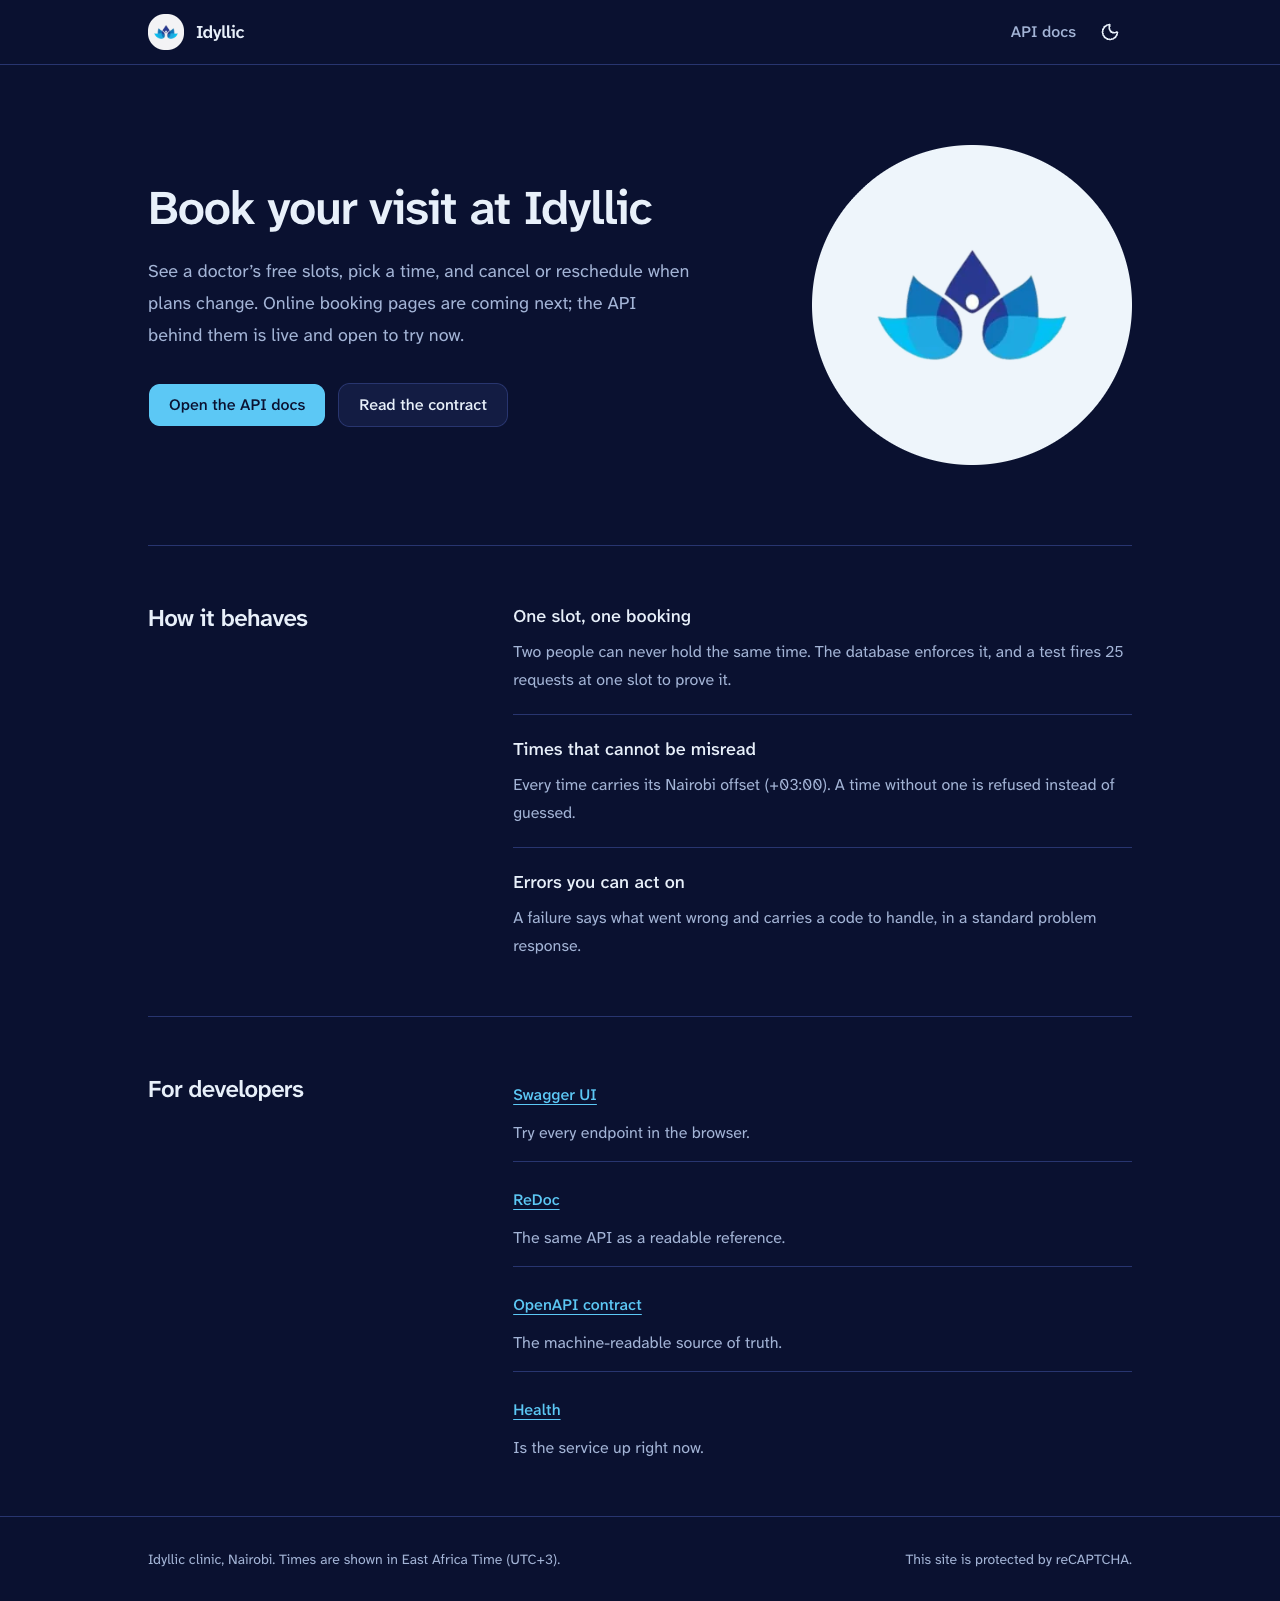
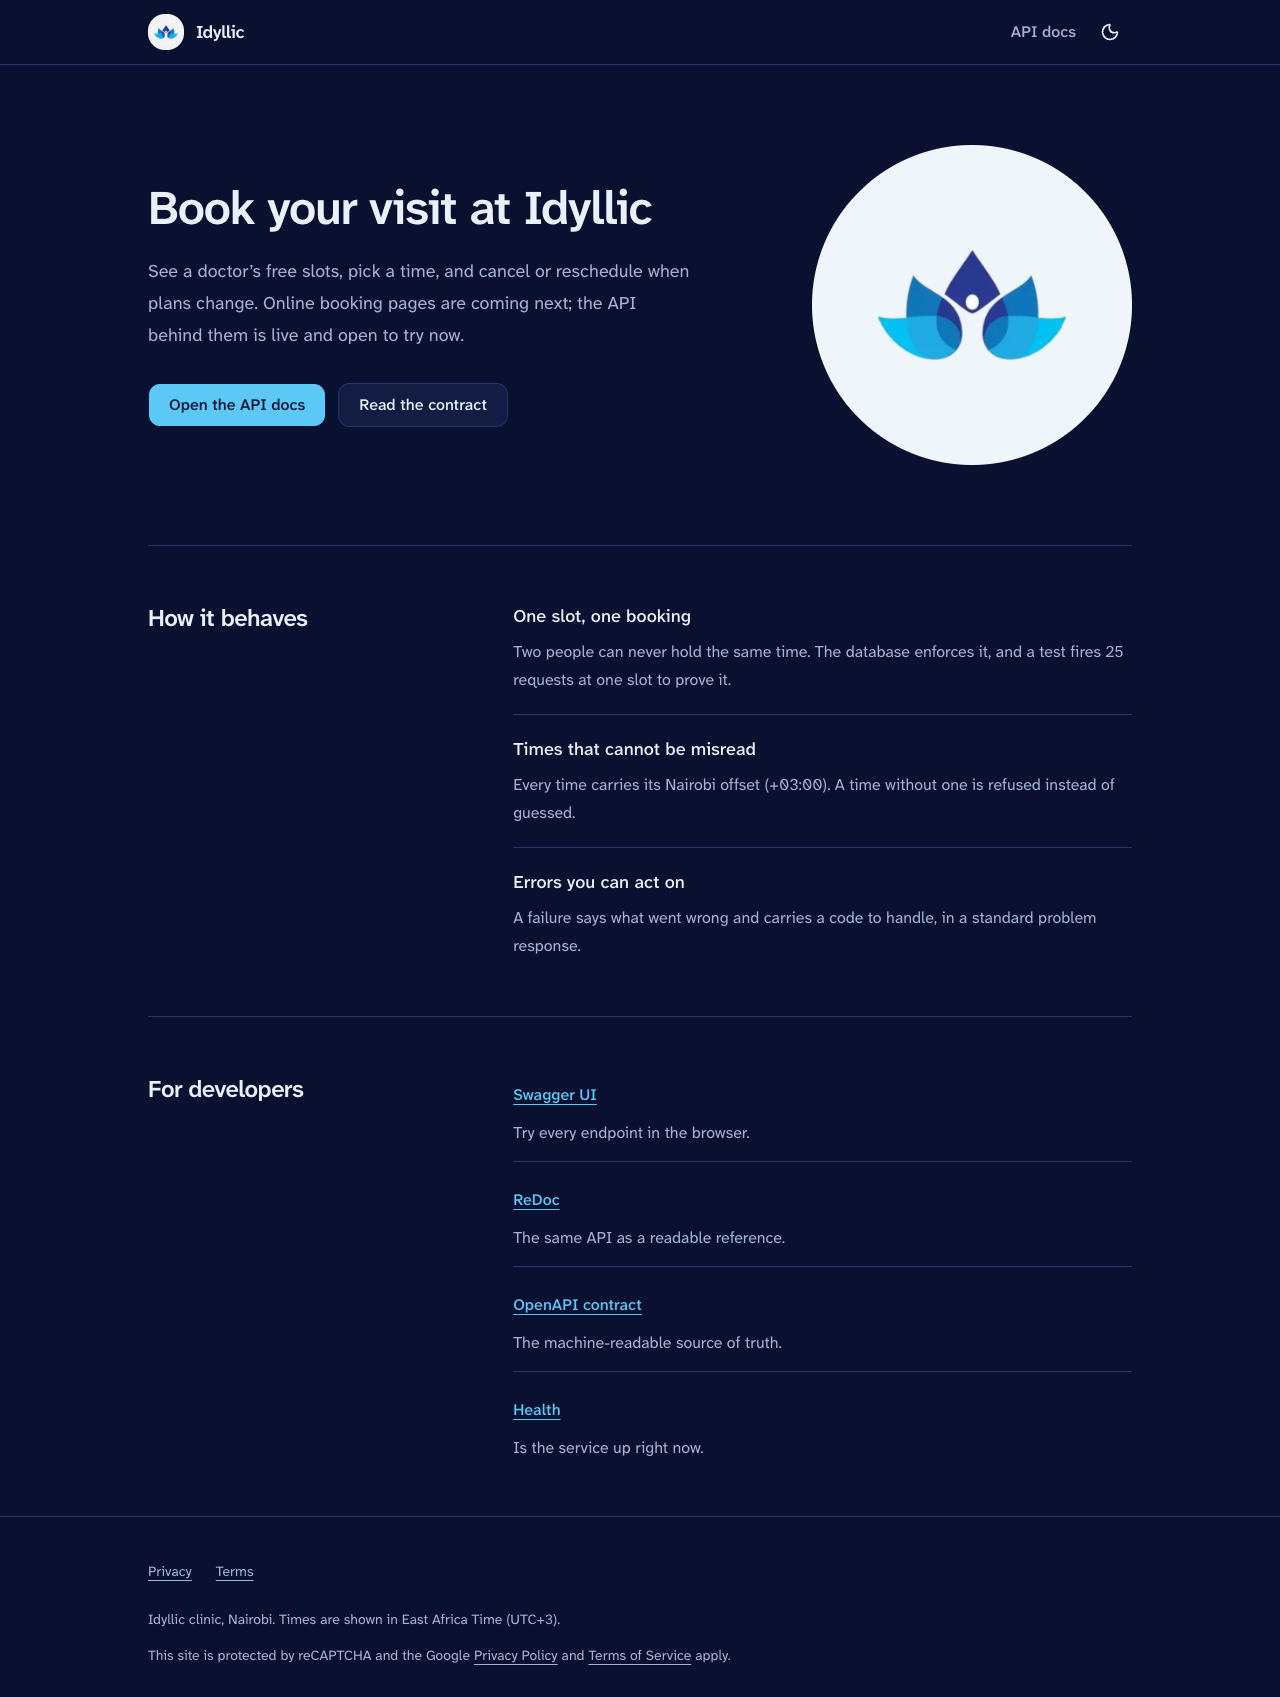
feat(web): privacy and terms pages, policy links in the footer, font fallback

diff --git a/web/src/app/privacy/page.tsx b/web/src/app/privacy/page.tsx
@@ -1,0 +1,90 @@
+import type { Metadata } from "next";
+import { LegalPage } from "@/components/layout/legal-page";
+import { CONTACT_EMAIL } from "@/lib/site";
+
+export const metadata: Metadata = {
+  title: "Privacy",
+  alternates: { canonical: "/privacy" },
+};
+export const dynamic = "force-static";
+
+export default function PrivacyPage() {
+  return (
+    <LegalPage title="Privacy" updated="17 October 2026">
+      <p>
+        This is a demonstration clinic booking system built for an assessment.
+        It is not a real clinic, and the data in it is meant to be test data.
+        Please do not enter real health information.
+      </p>
+
+      <h2>What is stored</h2>
+      <ul>
+        <li>
+          Your name, and optionally your phone number and email address, when
+          you register or sign in.
+        </li>
+        <li>
+          Your appointments: the doctor, the time, and whether it was booked,
+          rescheduled or cancelled, with the reason you give when you cancel.
+        </li>
+        <li>
+          A record of each booking change (what changed and when), so the
+          history of an appointment can be shown.
+        </li>
+      </ul>
+
+      <h2>Signing in with Google</h2>
+      <p>
+        You can sign in with your Google account. We receive your name, email
+        address and whether Google has verified the address. Your session is
+        kept in a cookie on this site only. We never see your Google password.
+      </p>
+
+      <h2>Protection against automated abuse</h2>
+      <p>
+        Forms that change a booking use Google reCAPTCHA. It looks at signals
+        from your browser to score whether a request comes from a person, and
+        Google handles that data under its own privacy policy.
+      </p>
+
+      <h2>Email</h2>
+      <p>
+        When you book, reschedule or cancel, and the day before an appointment,
+        we send an email through Resend to the address on your account. The
+        email contains the appointment details.
+      </p>
+
+      <h2>Where it lives</h2>
+      <p>
+        The site runs on Vercel, the booking service on Google Cloud, and the
+        database on Neon. Appointment data is not sold or shared for
+        advertising.
+      </p>
+
+      <h2>Deleting your data</h2>
+      <p>
+        Because this is a demonstration, test data may be removed at any time.
+        To have your data deleted sooner, write to{" "}
+        <a
+          className="text-primary underline underline-offset-4"
+          href={`mailto:${CONTACT_EMAIL}`}
+        >
+          {CONTACT_EMAIL}
+        </a>
+        .
+      </p>
+
+      <h2>Contact</h2>
+      <p>
+        Questions about this page or your data:{" "}
+        <a
+          className="text-primary underline underline-offset-4"
+          href={`mailto:${CONTACT_EMAIL}`}
+        >
+          {CONTACT_EMAIL}
+        </a>
+        .
+      </p>
+    </LegalPage>
+  );
+}

diff --git a/web/src/components/layout/site-footer.tsx b/web/src/components/layout/site-footer.tsx
@@ -1,17 +1,53 @@
+import Link from "next/link";
 import { Separator } from "@/components/ui/separator";
 
-// Google's FAQ lets the reCAPTCHA badge be hidden if the site says it uses reCAPTCHA.
-export const RECAPTCHA_ATTRIBUTION = "This site is protected by reCAPTCHA.";
+// The sentence reCAPTCHA needs on a page that hides its badge. Google's FAQ now asks only for
+// "This site is protected by reCAPTCHA."; this is the longer wording with the two policy links that
+// the engineer chose to keep, which is still accurate.
+export const RECAPTCHA_ATTRIBUTION =
+  "This site is protected by reCAPTCHA and the Google Privacy Policy and Terms of Service apply.";
+
+const LEGAL_LINK =
+  "inline-flex min-h-11 items-center rounded-md underline underline-offset-4 hover:text-foreground focus-visible:outline-2 focus-visible:outline-ring";
+// Policy links sit inside a sentence: padding makes the touch target 44px tall without moving the text.
+const INLINE_LINK =
+  "-my-3 inline-block rounded-sm py-3 underline underline-offset-4 hover:text-foreground focus-visible:outline-2 focus-visible:outline-ring";
 
 export function SiteFooter() {
   return (
     <footer className="mt-auto">
       <Separator />
-      <div className="pad-safe-x mx-auto flex w-full max-w-5xl flex-col gap-3 pb-[max(2rem,env(safe-area-inset-bottom))] pt-8 text-base text-muted-foreground sm:flex-row sm:items-center sm:justify-between sm:text-sm">
+      <div className="pad-safe-x mx-auto flex w-full max-w-5xl flex-col gap-4 pb-[max(2rem,env(safe-area-inset-bottom))] pt-8 text-base text-muted-foreground sm:text-sm">
+        <nav aria-label="Legal" className="flex flex-wrap gap-x-6">
+          <Link href="/privacy" className={LEGAL_LINK}>
+            Privacy
+          </Link>
+          <Link href="/terms" className={LEGAL_LINK}>
+            Terms
+          </Link>
+        </nav>
         <p>
           Idyllic clinic, Nairobi. Times are shown in East Africa Time (UTC+3).
         </p>
-        <p>{RECAPTCHA_ATTRIBUTION}</p>
+        <p>
+          This site is protected by reCAPTCHA and the Google{" "}
+          <a
+            href="https://policies.google.com/privacy"
+            className={INLINE_LINK}
+            rel="noopener noreferrer"
+          >
+            Privacy Policy
+          </a>{" "}
+          and{" "}
+          <a
+            href="https://policies.google.com/terms"
+            className={INLINE_LINK}
+            rel="noopener noreferrer"
+          >
+            Terms of Service
+          </a>{" "}
+          apply.
+        </p>
       </div>
     </footer>
   );

diff --git a/web/tests/site/shell.test.tsx b/web/tests/site/shell.test.tsx
@@ -1,6 +1,9 @@
 import { renderToStaticMarkup } from "react-dom/server";
 import { describe, expect, it } from "vitest";
 import Home from "@/app/page";
+import PrivacyPage from "@/app/privacy/page";
+import TermsPage from "@/app/terms/page";
+import { CONTACT_EMAIL } from "@/lib/site";
 import { PageShell } from "@/components/layout/page-shell";
 import {
   RECAPTCHA_ATTRIBUTION,
@@ -15,11 +18,21 @@ describe("page shell", () => {
     expect(html).toContain('id="main"');
   });
 
-  it("says the site uses reCAPTCHA in the footer, as Google's FAQ requires when the badge is hidden", () => {
-    expect(RECAPTCHA_ATTRIBUTION).toBe("This site is protected by reCAPTCHA.");
-    expect(renderToStaticMarkup(<SiteFooter />)).toContain(
-      "This site is protected by reCAPTCHA.",
+  it("says the site uses reCAPTCHA, with Google's policy links, as the footer sentence", () => {
+    const html = renderToStaticMarkup(<SiteFooter />);
+    const text = html.replace(/<[^>]+>/g, "").replace(/\s+/g, " ");
+    expect(RECAPTCHA_ATTRIBUTION).toBe(
+      "This site is protected by reCAPTCHA and the Google Privacy Policy and Terms of Service apply.",
     );
+    expect(text).toContain(RECAPTCHA_ATTRIBUTION);
+    expect(html).toContain('href="https://policies.google.com/privacy"');
+    expect(html).toContain('href="https://policies.google.com/terms"');
+  });
+
+  it("links the privacy and terms pages from the footer", () => {
+    const html = renderToStaticMarkup(<SiteFooter />);
+    expect(html).toContain('href="/privacy"');
+    expect(html).toContain('href="/terms"');
   });
 });
 
@@ -37,4 +50,25 @@ describe("landing page", () => {
     expect(html).not.toContain('href="/doctors"');
     expect(html).toContain("Online booking pages are coming next");
   });
+});
+
+describe("legal pages", () => {
+  it.each([
+    [
+      "privacy",
+      PrivacyPage,
+      "Privacy",
+      ["Google", "reCAPTCHA", "Resend", "phone"],
+    ],
+    ["terms", TermsPage, "Terms", ["medical advice", "demonstration"]],
+  ] as const)(
+    "%s has one h1, says what it must, and gives a contact",
+    (_n, Page, title, words) => {
+      const html = renderToStaticMarkup(<Page />);
+      expect(html.match(/<h1/g)).toHaveLength(1);
+      expect(html).toContain(`>${title}</h1>`);
+      for (const w of words) expect(html).toContain(w);
+      expect(html).toContain(`mailto:${CONTACT_EMAIL}`);
+    },
+  );
 });

diff --git a/web/src/app/terms/page.tsx b/web/src/app/terms/page.tsx
@@ -1,0 +1,64 @@
+import type { Metadata } from "next";
+import { LegalPage } from "@/components/layout/legal-page";
+import { CONTACT_EMAIL } from "@/lib/site";
+
+export const metadata: Metadata = {
+  title: "Terms",
+  alternates: { canonical: "/terms" },
+};
+export const dynamic = "force-static";
+
+export default function TermsPage() {
+  return (
+    <LegalPage title="Terms" updated="17 October 2026">
+      <p>
+        By using this site you agree to these terms. They are short because this
+        is a demonstration system built for an assessment, not a real clinic.
+      </p>
+
+      <h2>What this is</h2>
+      <p>
+        Idyllic Clinic Booking lets you see a doctor&rsquo;s free slots and
+        book, reschedule or cancel a visit. The doctors, the clinic and the
+        appointments are not real, and no medical service is provided.
+      </p>
+
+      <h2>No medical advice</h2>
+      <p>
+        Nothing here is medical advice. If you need care, contact a real clinic
+        or emergency service.
+      </p>
+
+      <h2>Using it fairly</h2>
+      <ul>
+        <li>
+          Do not enter real health information or other people&rsquo;s personal
+          data.
+        </li>
+        <li>
+          Do not try to overload the service or get around its protections.
+        </li>
+        <li>
+          You may try the API and the interactive documentation as they are
+          offered.
+        </li>
+      </ul>
+
+      <h2>No warranty</h2>
+      <p>
+        The service is provided as it is. It may change, be reset or go away at
+        any time, and bookings are not guaranteed to persist.
+      </p>
+
+      <h2>Contact</h2>
+      <p>
+        <a
+          className="text-primary underline underline-offset-4"
+          href={`mailto:${CONTACT_EMAIL}`}
+        >
+          {CONTACT_EMAIL}
+        </a>
+      </p>
+    </LegalPage>
+  );
+}

diff --git a/web/src/components/layout/legal-page.tsx b/web/src/components/layout/legal-page.tsx
@@ -1,0 +1,24 @@
+import type { ReactNode } from "react";
+
+// Shared frame for the short legal pages: one h1, readable line length, dated.
+export function LegalPage({
+  title,
+  updated,
+  children,
+}: {
+  title: string;
+  updated: string;
+  children: ReactNode;
+}) {
+  return (
+    <article className="max-w-[65ch] py-12">
+      <h1 className="font-heading text-3xl font-semibold tracking-tight sm:text-4xl">
+        {title}
+      </h1>
+      <p className="mt-2 text-muted-foreground">Last updated {updated}.</p>
+      <div className="mt-8 space-y-5 text-base leading-7 [&_h2]:mt-10 [&_h2]:font-heading [&_h2]:text-xl [&_h2]:font-semibold [&_ul]:list-disc [&_ul]:space-y-2 [&_ul]:pl-6">
+        {children}
+      </div>
+    </article>
+  );
+}

diff --git a/web/src/lib/site.ts b/web/src/lib/site.ts
@@ -8,8 +8,17 @@ export const SITE = {
   locale: "en_KE",
 } as const;
 
+export const CONTACT_EMAIL = "developer.ericgitangu@gmail.com";
+
 // Browser UI colours: the page background in each theme.
 export const THEME_COLORS = { light: "#f4f8fc", dark: "#0a1130" } as const;
 
 // Pages crawlers may index. Anything not listed (admin, auth, cron) is also disallowed in robots.
-export const PUBLIC_PATHS = ["/", "/docs", "/redoc"] as const;
+export const PUBLIC_PATHS = [
+  "/",
+  "/privacy",
+  "/terms",
+  "/docs",
+  "/redoc",
+  "/openapi.json",
+] as const;

diff --git a/web/tests/site/metadata.test.ts b/web/tests/site/metadata.test.ts
@@ -33,6 +33,8 @@ describe("search and sharing metadata", () => {
     const urls = sitemap().map((e) => e.url);
     expect(urls).toContain(SITE.url);
     expect(urls).toContain(`${SITE.url}/docs`);
+    for (const p of ["/privacy", "/terms", "/openapi.json"])
+      expect(urls).toContain(`${SITE.url}${p}`);
   });
 
   it("keeps crawlers out of the API, admin, sign-in and cron routes and points at the sitemap", () => {

diff --git a/web/src/app/layout.tsx b/web/src/app/layout.tsx
@@ -12,6 +12,9 @@ const sans = Atkinson_Hyperlegible_Next({
   subsets: ["latin"],
   variable: "--font-sans",
   display: "optional",
+  // No metrics are published for this font, so Next cannot size a fallback; ask for plain system fonts instead of warning.
+  adjustFontFallback: false,
+  fallback: ["system-ui", "Segoe UI", "Roboto", "Arial", "sans-serif"],
 });
 
 export { metadata, viewport };
